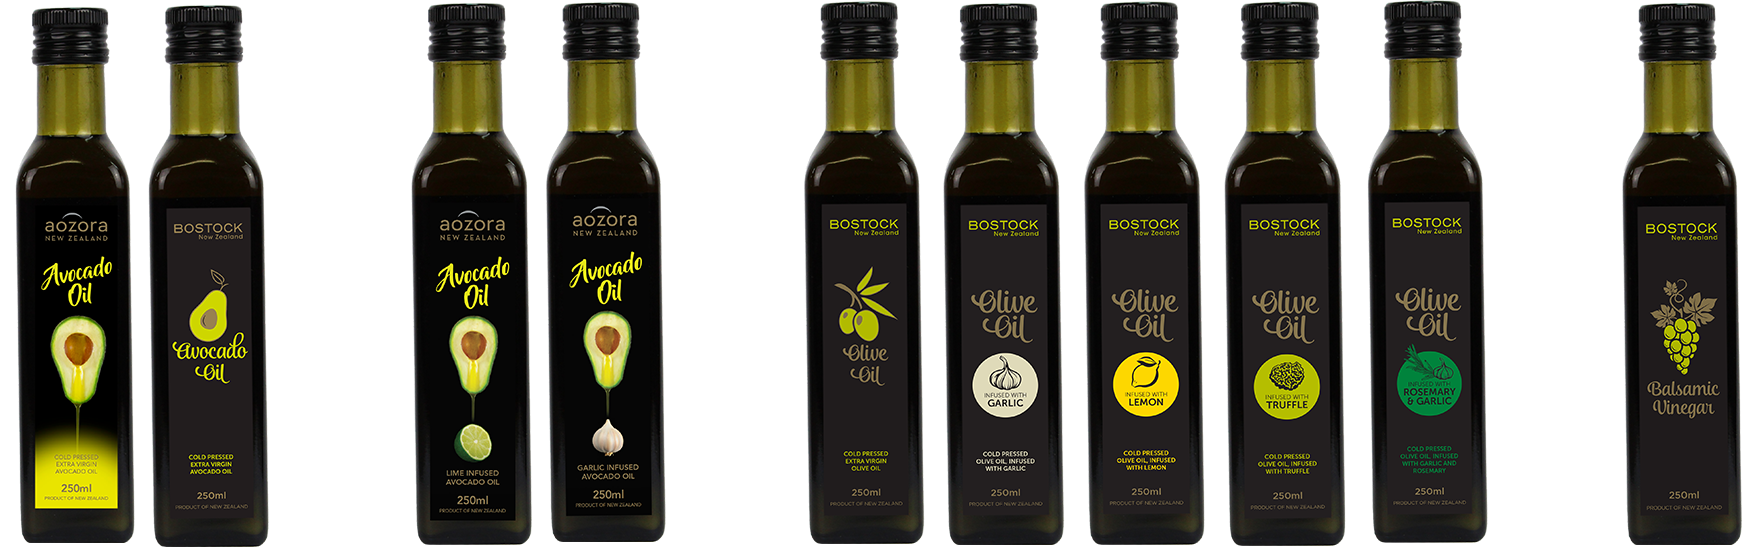
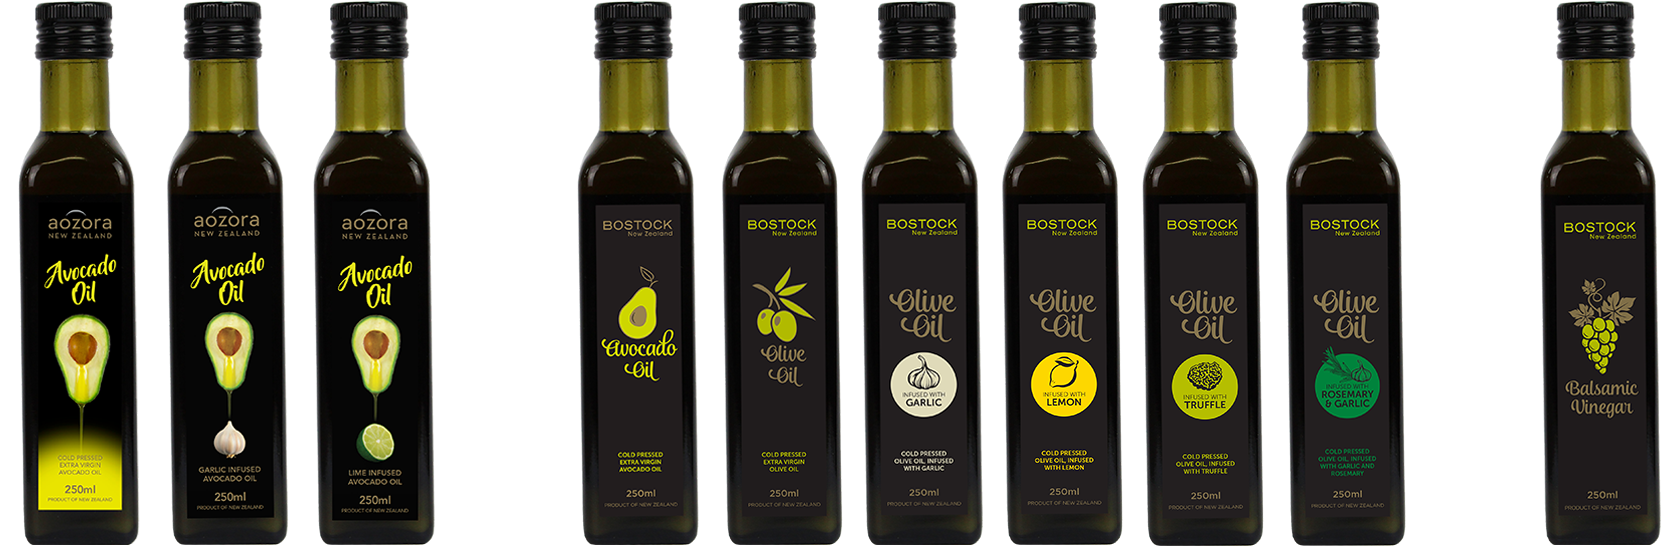
Minor changes

diff --git a/src/index.html b/src/index.html
@@ -137,6 +137,42 @@
                             </div>
                         </fieldset>
                     </div>
+
+                    <!-- AVO INFUSED DESKTOP -->
+                    <div class="category">
+                        <fieldset class="infused-avo-product">
+                            <legend class="product-title infused-avo-title">
+                                <h1 class="blurb">INFUSED AVOCADO OIL</h1>
+                            </legend>
+                            <div class="product-wrapper">
+                                <div class="infused-avo-oil-wrapper infused-avo-product">
+                                    <div class="product-information-wrapper">
+                                        <div class="product-information">
+                                            <h1 class="aozora-garlic-header">Aozora Garlic Infused Avocado Oil</h1>
+                                            <p> Aozora Garlic Infused Avocado Oil has a great flavour, and can be used to enhance the zest in any
+                                                dish, or drizzled over salads. The oil’s aromatic flavour, nutritional value, and versatility
+                                                make it a popular choice.</p>
+                                        </div>
+                                    </div>
+                                    <div class="product-image-wrapper">
+                                        <img class="desktop-image" src="img/products/AozoraAvocadoGarlicOil.png" alt="Aozora Lime Infused Avo Oil Image">
+                                    </div>
+                                </div>
+                                <div class="infused-avo-oil-wrapper infused-avo-product">
+                                    <div class="product-image-wrapper">
+                                        <img class="desktop-image" src="img/products/AozoraAvocadoLimeOil.png" alt="Aozora Lime Infused Avo Oil Image">
+                                    </div>
+                                    <div class="product-information-wrapper">
+                                        <div class="product-information">
+                                            <h1 class="aozora-lime-header">Aozora Lime Infused Avocado Oil</h1>
+                                            <p>Aozora created its Lime Infused Avocado Oil to add a delicious citrus tang to seafood or drizzling
+                                                over salads. It’s not only highly nutritious, but also delicious!</p>
+                                        </div>
+                                    </div>
+                                </div>
+                            </div>
+                        </fieldset>
+                    </div>
                     
                     <div class="category">
                         <fieldset class="olive-product">
@@ -159,41 +195,6 @@
                                 <div class="olive-tree-wrapper">
                                     <div class="product-no-border-image">
                                         <img class="desktop-image" src="img/products/otherProductImages/OlivesOnTreeImage.png" alt="Olive Tree">
-                                    </div>
-                                </div>
-                            </div>
-                        </fieldset>
-                    </div>
-                    <!-- AVO INFUSED DESKTOP -->
-                    <div class="category">
-                        <fieldset class="infused-avo-product">
-                            <legend class="product-title infused-avo-title">
-                                <h1 class="blurb">INFUSED AVOCADO OIL</h1>
-                            </legend>
-                            <div class="product-wrapper">
-                                <div class="infused-avo-oil-wrapper infused-avo-product">
-                                    <div class="product-information-wrapper">
-                                        <div class="product-information">
-                                            <h1 class="aozora-garlic-header">Aozora Garlic Infused Avocado Oil</h1>
-                                            <p> Aozora Garlic Infused Avocado Oil has a great flavour, and can be used to enhance the zest in any dish, or drizzled
-                                                over salads. The oil’s aromatic flavour, nutritional value, and versatility make it a popular choice.</p>
-                                        </div>
-                                    </div>
-                                    <div class="product-image-wrapper">
-                                        <img class="desktop-image" src="img/products/AozoraAvocadoGarlicOil.png" alt="Aozora Lime Infused Avo Oil Image">
-                                    </div>
-                                </div>
-                                
-                                <div class="infused-avo-oil-wrapper infused-avo-product">
-                                    <div class="product-image-wrapper">
-                                        <img class="desktop-image" src="img/products/AozoraAvocadoLimeOil.png" alt="Aozora Lime Infused Avo Oil Image">
-                                    </div>
-                                    <div class="product-information-wrapper">
-                                        <div class="product-information">
-                                            <h1 class="aozora-lime-header">Aozora Lime Infused Avocado Oil</h1>
-                                            <p>Aozora created its Lime Infused Avocado Oil to add a delicious citrus tang to seafood or drizzling over salads.
-                                                It’s not only highly nutritious, but also delicious!</p>
-                                        </div>
                                     </div>
                                 </div>
                             </div>
@@ -260,6 +261,7 @@
                         </fieldset>
                     </div>
 
+
                     <div class="category">
                         <fieldset class="balsamic-product">
                             <legend class="product-title balsamic-title">
@@ -305,20 +307,6 @@
                     </div>
 
                     <div class="category">
-                        <div class="product-title olive-title">
-                            <h1 class="blurb">EXTRA VIRGIN OLIVE OIL</h1>
-                        </div>
-                        <div class="product-wrapper">
-                            <div class="olive-product product-item">
-                                <a href="#bostockOlive">
-                                    <img class="product-image mobile-image" src="img/products/BostockOliveOil.png" alt="BostockOliveOil">
-                                    <img class="product-image tablet-image" src="img/products/otherProductImages/otherOliveOilImage.png" alt="BostockOliveOil">
-                                </a>
-                            </div>
-                        </div>
-                    </div>
-
-                    <div class="category">
                         <div class="product-title infused-avo-title">
                             <h1 class="blurb">INFUSED AVOCADO OIL</h1>
                         </div>
@@ -333,6 +321,20 @@
                                 <a href="#aozoraLime">
                                     <img class="product-image mobile-image" src="img/products/AozoraAvocadoLimeOil.png" alt="Aozora Lime Infused Avo Oil Image">
                                     <img class="product-image tablet-image" src="img/products/AozoraAvocadoLimeOil.png" alt="Aozora Lime Infused Avo Oil Image">
+                                </a>
+                            </div>
+                        </div>
+                    </div>
+
+                    <div class="category">
+                        <div class="product-title olive-title">
+                            <h1 class="blurb">EXTRA VIRGIN OLIVE OIL</h1>
+                        </div>
+                        <div class="product-wrapper">
+                            <div class="olive-product product-item">
+                                <a href="#bostockOlive">
+                                    <img class="product-image mobile-image" src="img/products/BostockOliveOil.png" alt="BostockOliveOil">
+                                    <img class="product-image tablet-image" src="img/products/otherProductImages/otherOliveOilImage.png" alt="BostockOliveOil">
                                 </a>
                             </div>
                         </div>
